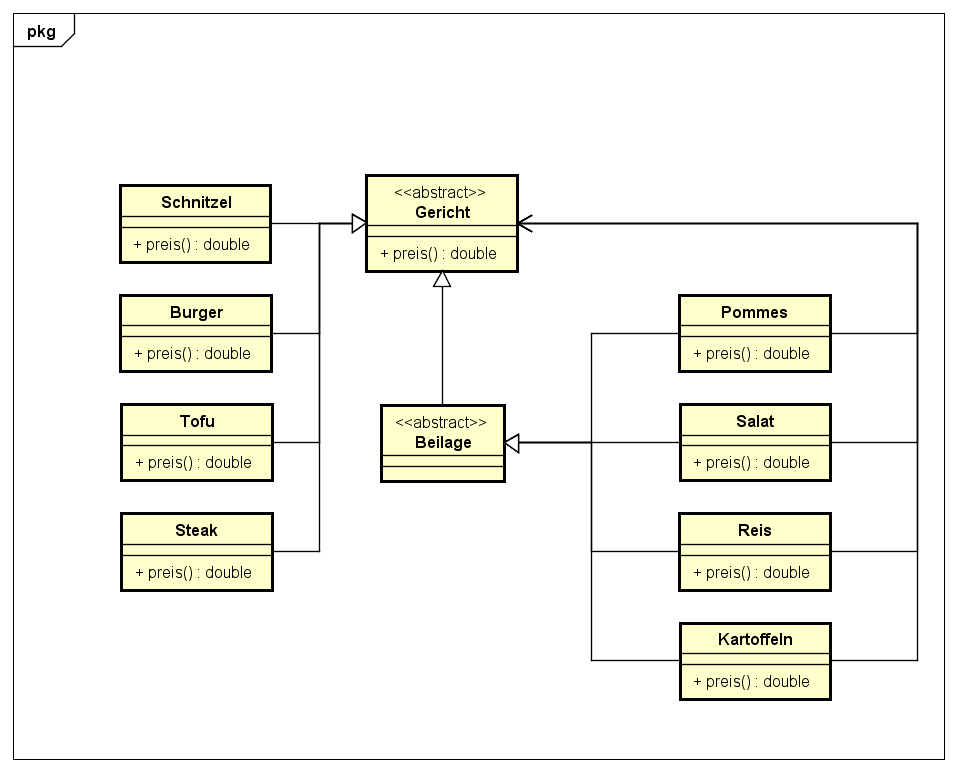
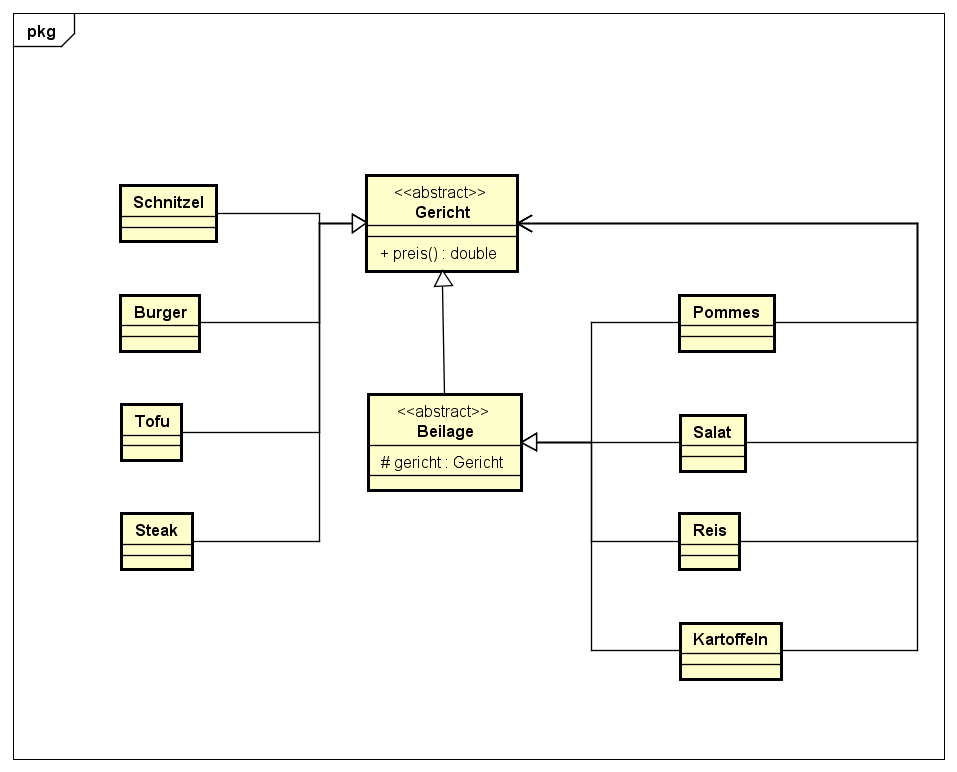
Finished DecoratorPattern

diff --git a/ObserverPattern/Readme.md b/ObserverPattern/Readme.md
@@ -29,4 +29,83 @@ wie ein Newsletter (in unserem fall mittels dem "Notify Me" Button).
 
 ### UML
 
+![Decorator UML-Diagramm](DecoratorPattern.png "Decorator")
+
 ### Code
+
+Als erstes müssen zwei abstrakte Klassen erstellt werden:
+
+* Die Gericht Klasse mit der abstrakten methode cost()
+* Die Beilage Klasse die eine Subklasse von Geraenk ist
+
+```java
+
+public abstract class Gericht{
+	public abstract double preis();
+}
+
+public abstract class Beilage extends Gericht{
+    protected Gericht gericht;
+}
+
+```
+
+Dann werden die eigentlichen Gerichte und Beilagen implementiert
+
+```java
+
+public class Schnitzel extends Gericht{
+    @override
+	public double preis(){
+		return 7.90;
+	}
+}
+
+public class Steak extends Gericht{
+    @override
+	public double preis(){
+		return 19.90;
+	}
+}
+
+
+public class Pommes extends Beilage{
+	private Gericht gericht;
+
+	public Pommes(Gericht gericht){
+		this.gericht = gericht;
+	}
+
+    @override
+	public double preis(){
+		return this.gericht.cost() + 1.20;
+	}
+}
+
+public class Reis extends Beilage{
+	private Gericht gericht;
+
+	public Pommes(Gericht gericht){
+		this.gericht = gericht;
+	}
+
+    @override
+	public double preis(){
+		return this.gericht.cost() + 2.20;
+	}
+}
+
+```
+
+Letztens können die verschiedenen Gerichte erstellt werden
+
+```java
+
+public class Main{
+	public static void main(String[] args){
+		Gericht gericht = new Pommes(new Schnitzel());
+		Gericht gericht = new Reis(new Reis(new Steak()));
+	}
+}
+
+```
